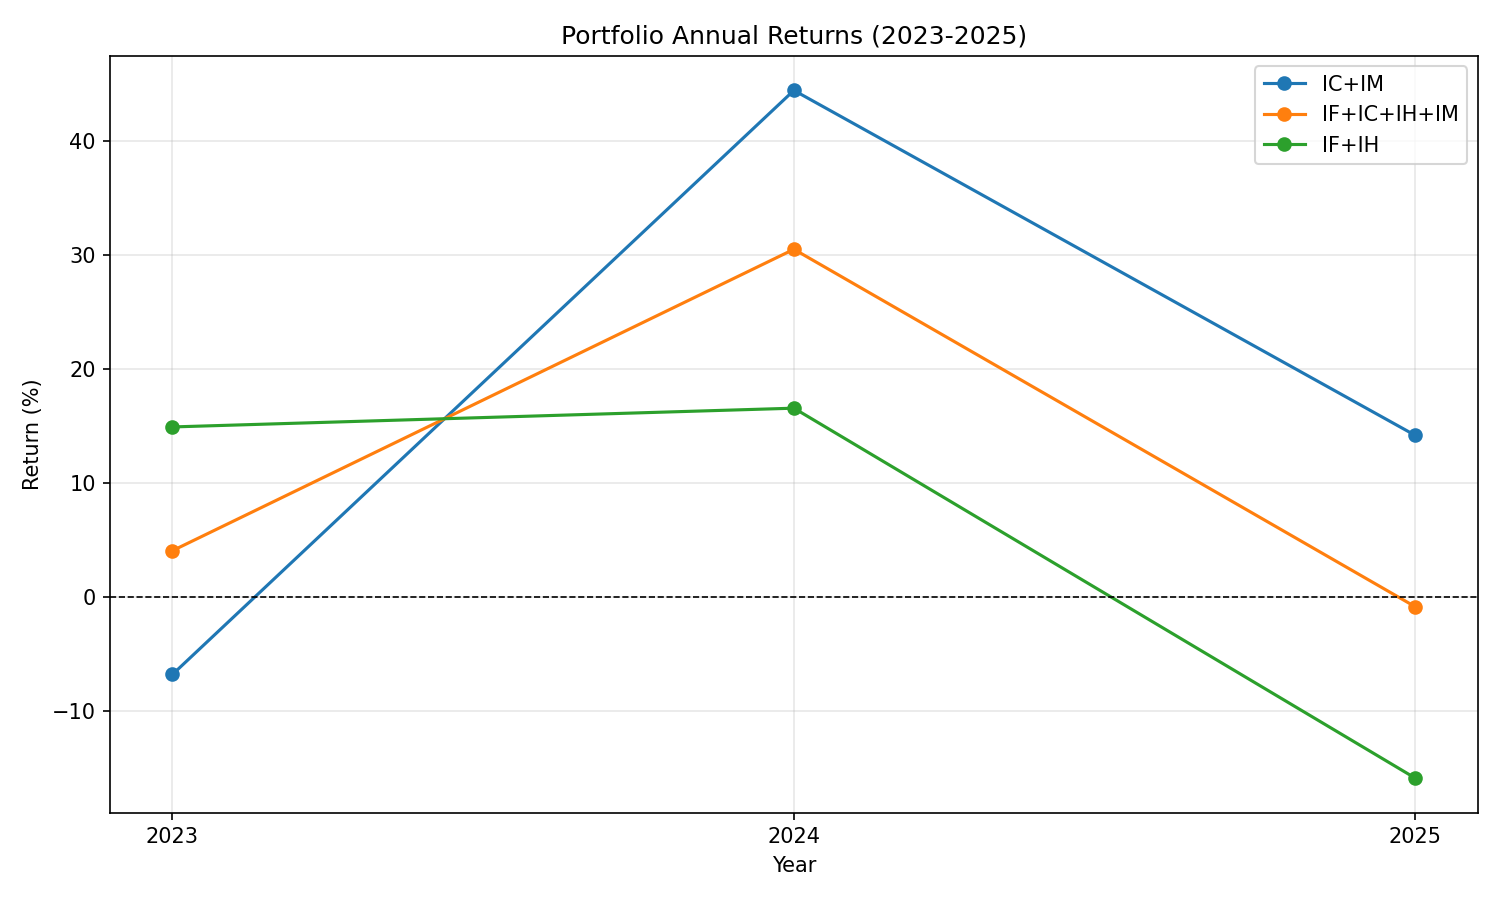
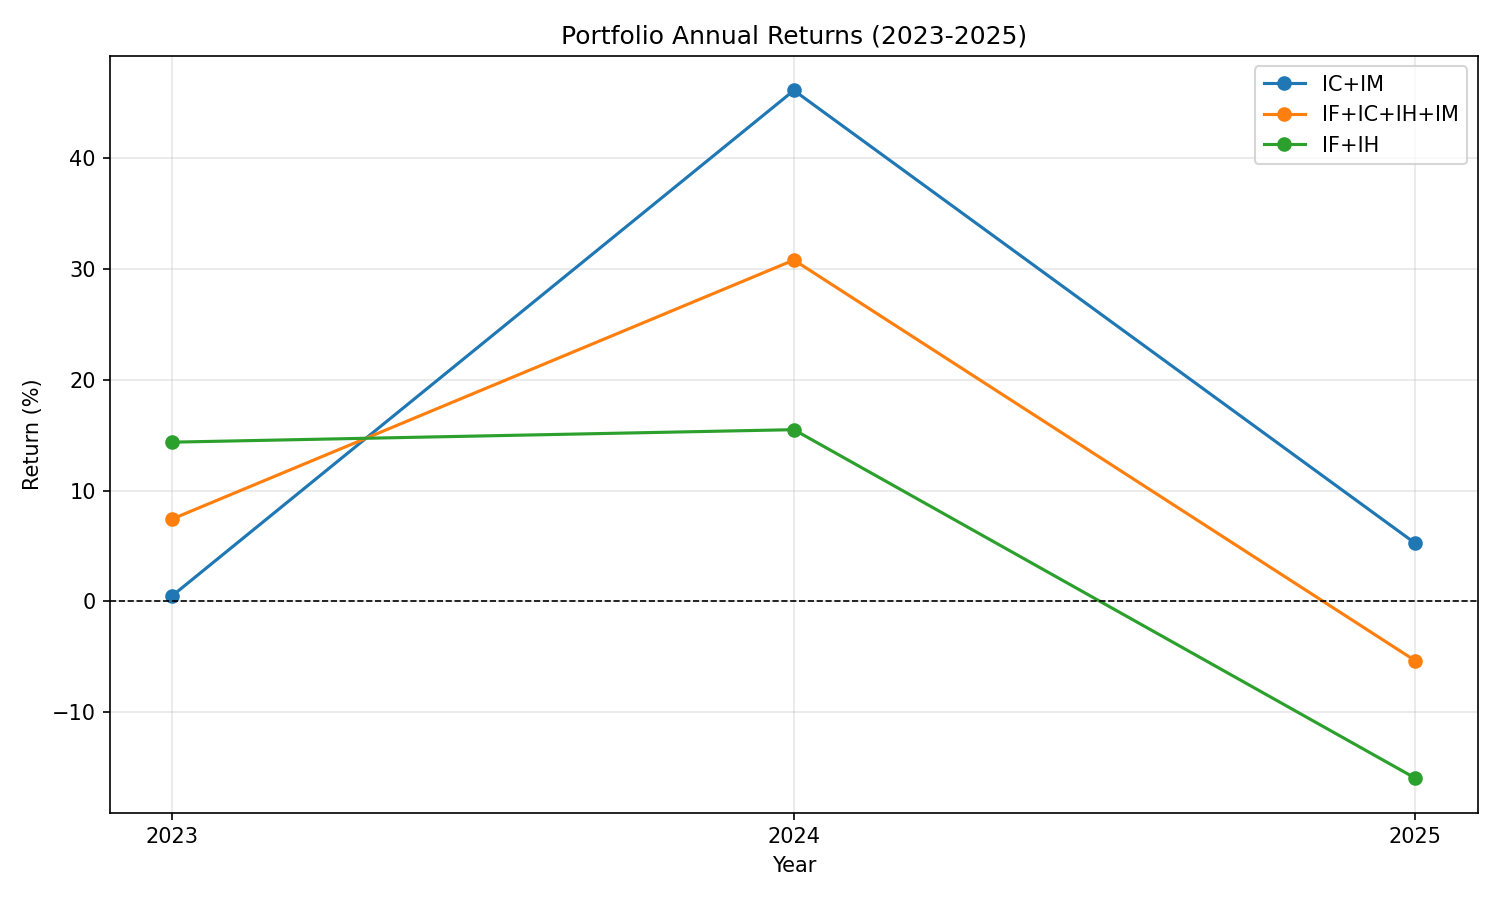
docs(wiki): regenerate LDT CN index futures v6 deep-dive report
- Update wiki/ldt_cn_index_futures_2015.md with new ensemble-full WFO results
- Regenerate correlation/portfolio/wfo charts
- Update index.md latest entry

diff --git a/wiki/ldt_cn_index_futures_2015.md b/wiki/ldt_cn_index_futures_2015.md
@@ -1,6 +1,6 @@
 # LDT 在四大股指期货上的深度挖掘报告（IF88/IC88/IH88/IM88）
 
-> **Report Date**: 2026-06-28 13:03
+> **Report Date**: 2026-06-28 20:41
 > **Strategy**: LimitedDualThrustStrategy (LDT)
 > **Symbols**: IF88.CFFEX, IC88.CFFEX, IH88.CFFEX, IM88.CFFEX
 > **Period**: 2015-01-01 ~ 2025-12-31 (Rolling WFO) + 2026-01-01 ~ 2026-06-25 (Forward Test)
@@ -17,18 +17,18 @@
 
 | 品种 | IS Sharpe | Rolling Avg Test Sharpe | Concat OOS Sharpe | Deployable | 2026 Forward Sharpe |
 |------|-----------|-------------------------|-------------------|------------|---------------------|
-| IF88 | 1.54 | 0.88 | 0.91 | True | -1.60 |
-| IC88 | 1.70 | 0.59 | 0.81 | True | 1.18 |
-| IH88 | 1.13 | 0.38 | 0.45 | True | -2.04 |
-| IM88 | 1.77 | 0.36 | 0.26 | True | 0.37 |
+| IF88 | 1.54 | 0.82 | 0.85 | True | -1.60 |
+| IC88 | 1.70 | 0.56 | 0.68 | True | 1.18 |
+| IH88 | 1.13 | 0.36 | 0.43 | True | -2.04 |
+| IM88 | 1.77 | 0.48 | 0.44 | True | 0.37 |
 
 ### 组合效应
 
 | 组合 | 2023-2025 年均收益 | 年化波动 | 收益/波动 | 2026 前向收益 |
 |------|-------------------|----------|-----------|---------------|
-| IC+IM | 17.30% | 25.76% | 0.67 | 5.23% |
-| IF+IC+IH+IM | 11.26% | 16.87% | 0.67 | 0.22% |
-| IF+IH | 5.23% | 18.28% | 0.29 | -4.80% |
+| IC+IM | 17.28% | 25.07% | 0.69 | 5.23% |
+| IF+IC+IH+IM | 10.96% | 18.33% | 0.60 | 0.22% |
+| IF+IH | 4.63% | 17.84% | 0.26 | -4.80% |
 
 ---
 
@@ -59,84 +59,84 @@
 | 指标 | 数值 |
 |------|------|
 | 窗口数 | 8 |
-| WFE | 0.58 |
+| WFE | 0.65 |
 | Consistency | 87.5% |
-| Avg Test Sharpe | 0.88 |
-| Concatenated OOS Sharpe | 0.91 |
+| Avg Test Sharpe | 0.82 |
+| Concatenated OOS Sharpe | 0.85 |
 | 过拟合风险 | low |
 | Deployable | **True** |
 
 | 窗口 | Test 期 | Test Sharpe | Test Return | Test Trades |
 |------|---------|-------------|-------------|---------------|
-| W1 | 2017-12-31 ~ 2018-12-31 | 1.44 | 21.33% | 650 |
-| W2 | 2018-12-31 ~ 2019-12-31 | 0.76 | 20.14% | 1590 |
-| W3 | 2019-12-31 ~ 2020-12-30 | 0.59 | 15.19% | 876 |
-| W4 | 2020-12-31 ~ 2021-12-31 | 0.97 | 22.55% | 656 |
-| W5 | 2021-12-31 ~ 2022-12-31 | 1.79 | 34.62% | 648 |
-| W6 | 2022-12-31 ~ 2023-12-31 | 1.15 | 18.04% | 476 |
-| W7 | 2023-12-31 ~ 2024-12-30 | 1.36 | 26.40% | 658 |
-| W8 | 2024-12-31 ~ 2025-12-31 | -1.05 | -14.37% | 430 |
+| W1 | 2017-12-31 ~ 2018-12-31 | 1.26 | 15.73% | 3266 |
+| W2 | 2018-12-31 ~ 2019-12-31 | 1.16 | 23.75% | 6628 |
+| W3 | 2019-12-31 ~ 2020-12-30 | 0.67 | 15.62% | 4850 |
+| W4 | 2020-12-31 ~ 2021-12-31 | 0.76 | 17.15% | 2894 |
+| W5 | 2021-12-31 ~ 2022-12-31 | 1.28 | 25.53% | 3956 |
+| W6 | 2022-12-31 ~ 2023-12-31 | 1.21 | 18.00% | 2482 |
+| W7 | 2023-12-31 ~ 2024-12-30 | 1.29 | 24.33% | 3038 |
+| W8 | 2024-12-31 ~ 2025-12-31 | -1.08 | -13.88% | 2074 |
 ### IC88
 
 | 指标 | 数值 |
 |------|------|
 | 窗口数 | 8 |
-| WFE | 0.45 |
+| WFE | 0.46 |
 | Consistency | 62.5% |
-| Avg Test Sharpe | 0.59 |
-| Concatenated OOS Sharpe | 0.81 |
+| Avg Test Sharpe | 0.56 |
+| Concatenated OOS Sharpe | 0.68 |
 | 过拟合风险 | moderate |
 | Deployable | **True** |
 
 | 窗口 | Test 期 | Test Sharpe | Test Return | Test Trades |
 |------|---------|-------------|-------------|---------------|
-| W1 | 2017-12-31 ~ 2018-12-31 | -0.37 | -9.29% | 1500 |
-| W2 | 2018-12-31 ~ 2019-12-31 | 0.10 | 2.23% | 2106 |
-| W3 | 2019-12-31 ~ 2020-12-30 | 2.70 | 77.01% | 1304 |
-| W4 | 2020-12-31 ~ 2021-12-31 | -2.25 | -43.53% | 618 |
-| W5 | 2021-12-31 ~ 2022-12-31 | 1.51 | 34.91% | 930 |
-| W6 | 2022-12-31 ~ 2023-12-31 | -0.54 | -7.22% | 420 |
-| W7 | 2023-12-31 ~ 2024-12-30 | 2.24 | 66.53% | 662 |
-| W8 | 2024-12-31 ~ 2025-12-31 | 1.32 | 23.93% | 828 |
+| W1 | 2017-12-31 ~ 2018-12-31 | -0.10 | -1.98% | 7300 |
+| W2 | 2018-12-31 ~ 2019-12-31 | 0.05 | 0.99% | 8636 |
+| W3 | 2019-12-31 ~ 2020-12-30 | 2.50 | 50.06% | 4076 |
+| W4 | 2020-12-31 ~ 2021-12-31 | -2.82 | -53.93% | 4498 |
+| W5 | 2021-12-31 ~ 2022-12-31 | 1.84 | 39.50% | 3564 |
+| W6 | 2022-12-31 ~ 2023-12-31 | -0.52 | -6.98% | 2396 |
+| W7 | 2023-12-31 ~ 2024-12-30 | 2.12 | 56.71% | 3922 |
+| W8 | 2024-12-31 ~ 2025-12-31 | 1.42 | 25.83% | 3288 |
 ### IH88
 
 | 指标 | 数值 |
 |------|------|
 | 窗口数 | 8 |
-| WFE | 0.38 |
+| WFE | 0.43 |
 | Consistency | 87.5% |
-| Avg Test Sharpe | 0.38 |
-| Concatenated OOS Sharpe | 0.45 |
+| Avg Test Sharpe | 0.36 |
+| Concatenated OOS Sharpe | 0.43 |
 | 过拟合风险 | moderate |
 | Deployable | **True** |
 
 | 窗口 | Test 期 | Test Sharpe | Test Return | Test Trades |
 |------|---------|-------------|-------------|---------------|
-| W1 | 2017-12-31 ~ 2018-12-31 | 1.03 | 10.06% | 672 |
-| W2 | 2018-12-31 ~ 2019-12-31 | 1.20 | 17.38% | 604 |
-| W3 | 2019-12-31 ~ 2020-12-30 | 0.54 | 10.73% | 834 |
-| W4 | 2020-12-31 ~ 2021-12-31 | 0.36 | 8.04% | 682 |
-| W5 | 2021-12-31 ~ 2022-12-31 | 0.36 | 5.70% | 886 |
-| W6 | 2022-12-31 ~ 2023-12-31 | 1.09 | 11.86% | 764 |
-| W7 | 2023-12-31 ~ 2024-12-30 | 0.50 | 6.79% | 638 |
-| W8 | 2024-12-31 ~ 2025-12-31 | -2.01 | -17.36% | 262 |
+| W1 | 2017-12-31 ~ 2018-12-31 | 0.92 | 8.92% | 4174 |
+| W2 | 2018-12-31 ~ 2019-12-31 | 1.26 | 16.83% | 2914 |
+| W3 | 2019-12-31 ~ 2020-12-30 | 0.56 | 8.29% | 2874 |
+| W4 | 2020-12-31 ~ 2021-12-31 | 0.62 | 11.88% | 3180 |
+| W5 | 2021-12-31 ~ 2022-12-31 | 0.03 | 0.42% | 3970 |
+| W6 | 2022-12-31 ~ 2023-12-31 | 1.03 | 10.73% | 3100 |
+| W7 | 2023-12-31 ~ 2024-12-30 | 0.49 | 6.65% | 3600 |
+| W8 | 2024-12-31 ~ 2025-12-31 | -2.04 | -18.02% | 1574 |
 ### IM88
 
 | 指标 | 数值 |
 |------|------|
 | 窗口数 | 3 |
-| WFE | 0.06 |
+| WFE | 0.19 |
 | Consistency | 66.7% |
-| Avg Test Sharpe | 0.36 |
-| Concatenated OOS Sharpe | 0.26 |
+| Avg Test Sharpe | 0.48 |
+| Concatenated OOS Sharpe | 0.44 |
 | 过拟合风险 | moderate |
 | Deployable | **True** |
 
 | 窗口 | Test 期 | Test Sharpe | Test Return | Test Trades |
 |------|---------|-------------|-------------|---------------|
-| W6 | 2022-12-31 ~ 2023-12-31 | -0.24 | -6.31% | 586 |
-| W7 | 2023-12-31 ~ 2024-12-30 | 1.18 | 22.41% | 440 |
-| W8 | 2024-12-31 ~ 2025-12-31 | 0.14 | 4.48% | 1040 |
+| W6 | 2022-12-31 ~ 2023-12-31 | 0.43 | 8.02% | 3058 |
+| W7 | 2023-12-31 ~ 2024-12-30 | 1.65 | 35.49% | 2448 |
+| W8 | 2024-12-31 ~ 2025-12-31 | -0.64 | -15.36% | 3668 |
 
 ![WFO Window Sharpe](ldt_cn_index_futures_2015/wfo_window_sharpe.png)
 
@@ -146,9 +146,9 @@
 
 | 年份 | IF88 | IC88 | IH88 | IM88 |
 |------|------|------|------|------|
-| 2023 | 18.04% | -7.22% | 11.86% | -6.31% |
-| 2024 | 26.40% | 66.53% | 6.79% | 22.41% |
-| 2025 | -14.37% | 23.93% | -17.36% | 4.48% |
+| 2023 | 18.00% | -6.98% | 10.73% | 8.02% |
+| 2024 | 24.33% | 56.71% | 6.65% | 35.49% |
+| 2025 | -13.88% | 25.83% | -18.02% | -15.36% |
 
 ![Correlation Matrix](ldt_cn_index_futures_2015/correlation_matrix.png)
 